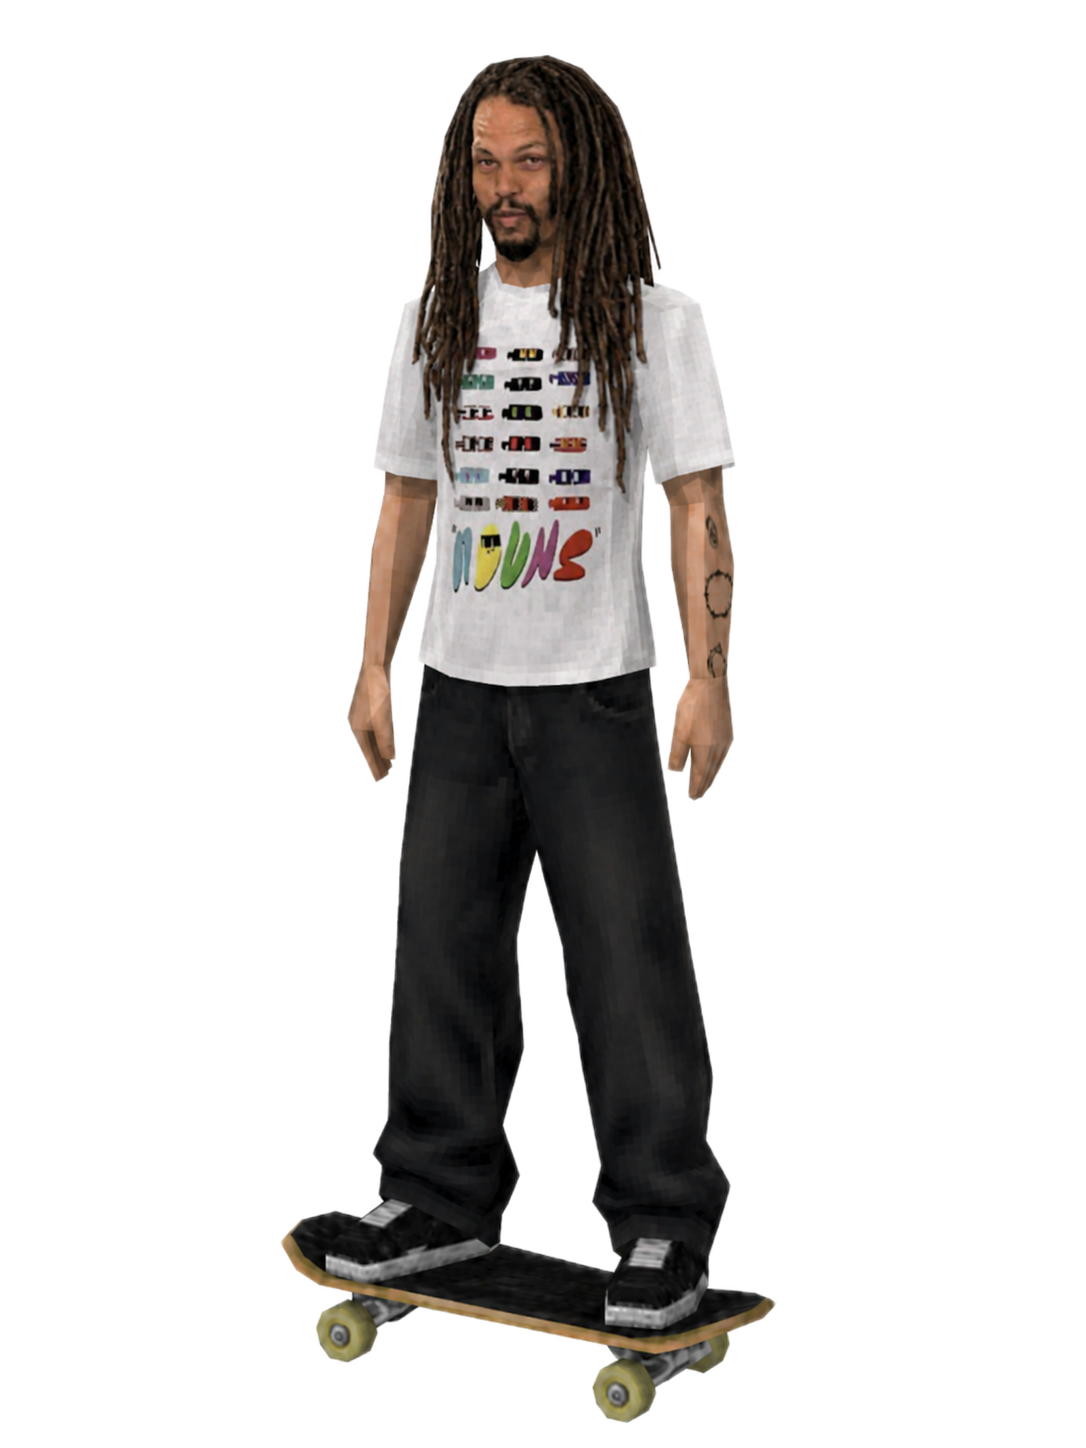
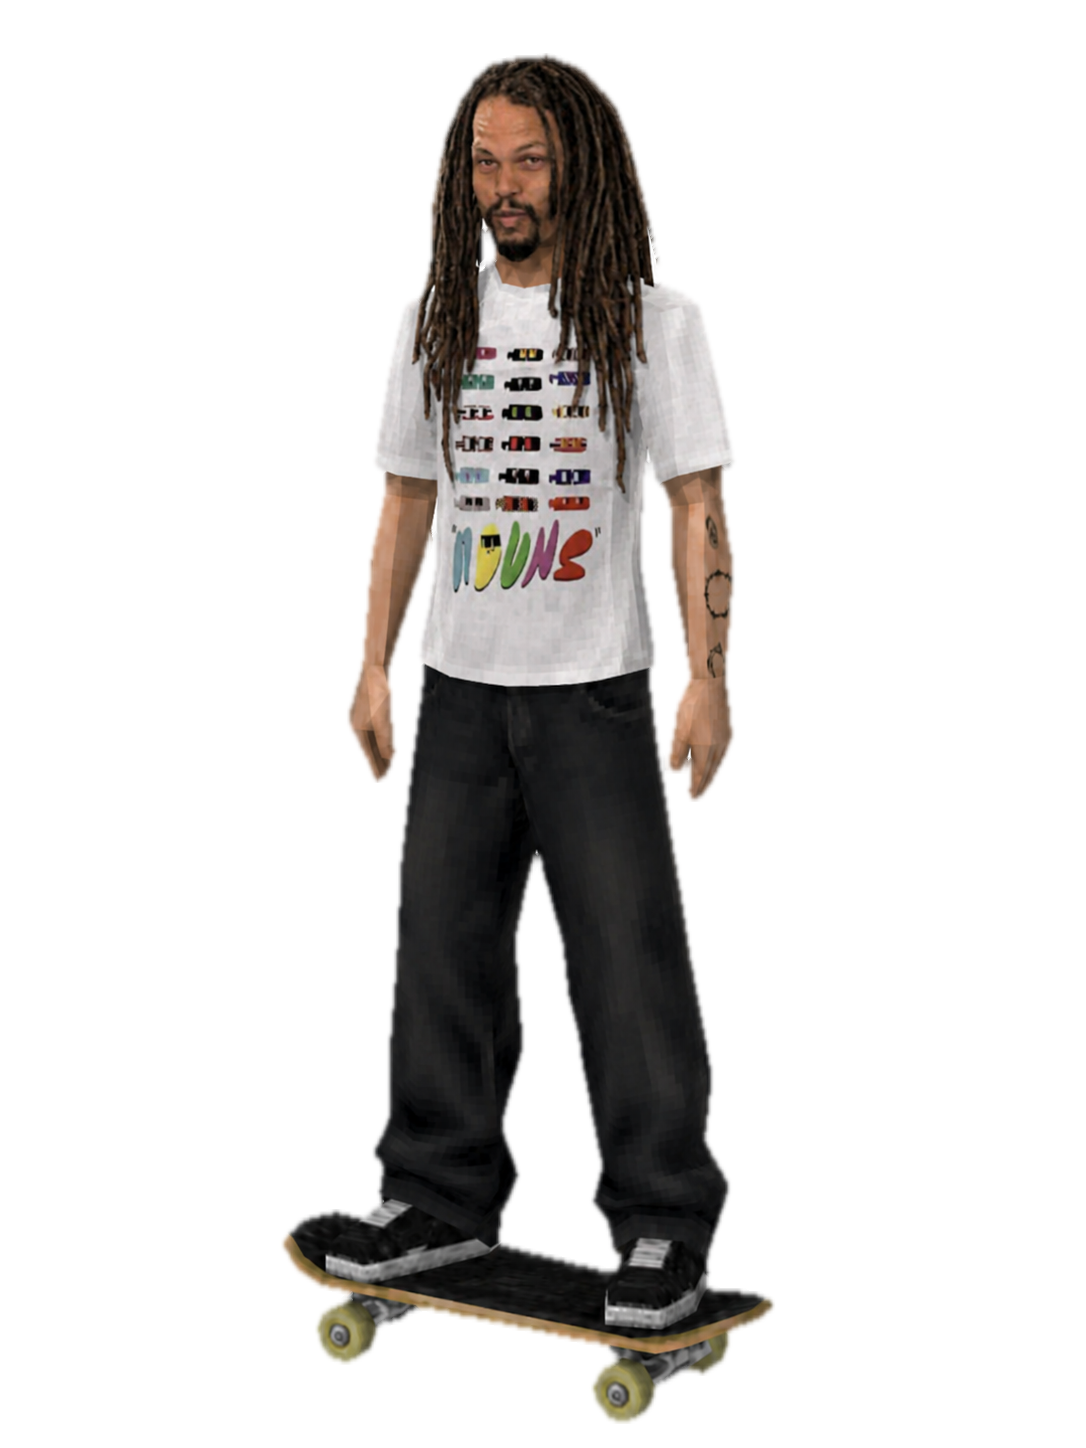
feat(stake): clean cutout halos (Fable) + stETH min/suggested 0.011
- Re-did the background removal on the rider cut-outs: killed the white outline
  halo (color-bleed defringe + 2px alpha erosion) on vlad/yan/r4to/pamtech/v2.
  zima was already clean and is untouched. Verified composited on the dark stage.
- stETH stake minimum + suggested amount bumped 0.01 → 0.011: exactly-0.01 can
  trip Morpheus's minimal-stake check because stETH transfers land 1–2 wei short
  (share rounding). 0.011 clears it.

diff --git a/src/components/stake/StakeDialog.tsx b/src/components/stake/StakeDialog.tsx
@@ -37,7 +37,7 @@ interface Opp {
 }
 const OPPS: Opp[] = [
   { id: "vault-usdc", kind: "vault", asset: "usdc", unit: "USDC", labelKey: "opp.vaultUsdc", venue: "Morpho", logo: MORPHO_LOGO, presets: [100, 500, 1000, 5000], default: "1000" },
-  { id: "mor-steth", kind: "mor", asset: "steth", unit: "stETH", labelKey: "opp.morSteth", venue: "Morpheus", logo: MORPHEUS_LOGO, presets: [0.01, 0.1, 0.5, 1], default: "0.1" },
+  { id: "mor-steth", kind: "mor", asset: "steth", unit: "stETH", labelKey: "opp.morSteth", venue: "Morpheus", logo: MORPHEUS_LOGO, presets: [0.011, 0.1, 0.5, 1], default: "0.011" },
   { id: "mor-usdc", kind: "mor", asset: "usdc", unit: "USDC", labelKey: "opp.morUsdc", venue: "Morpheus", logo: MORPHEUS_LOGO, presets: [100, 500, 1000, 5000], default: "1000" },
 ];
 

diff --git a/src/lib/morpheus.ts b/src/lib/morpheus.ts
@@ -28,8 +28,9 @@ export const MORPHEUS_POOLS = {
     token: getAddress("0xae7ab96520DE3A18E5e111B5EaAb095312D7fE84"), // stETH
     decimals: 18,
     symbol: "stETH",
-    /** minimalStake read on-chain (0.01 stETH). */
-    minStake: "0.01",
+    /** Protocol minimum is 0.01 stETH, but stETH transfers can land 1–2 wei
+     * short (share rounding) and trip the min check — so we surface 0.011. */
+    minStake: "0.011",
   },
   usdc: {
     pool: getAddress("0x6cCE082851Add4c535352f596662521B4De4750E"),
